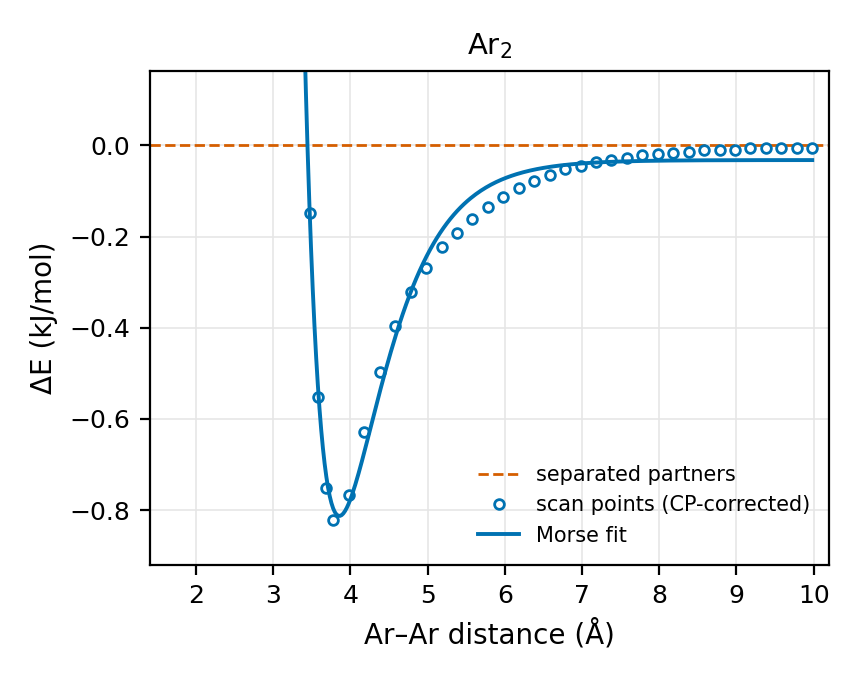
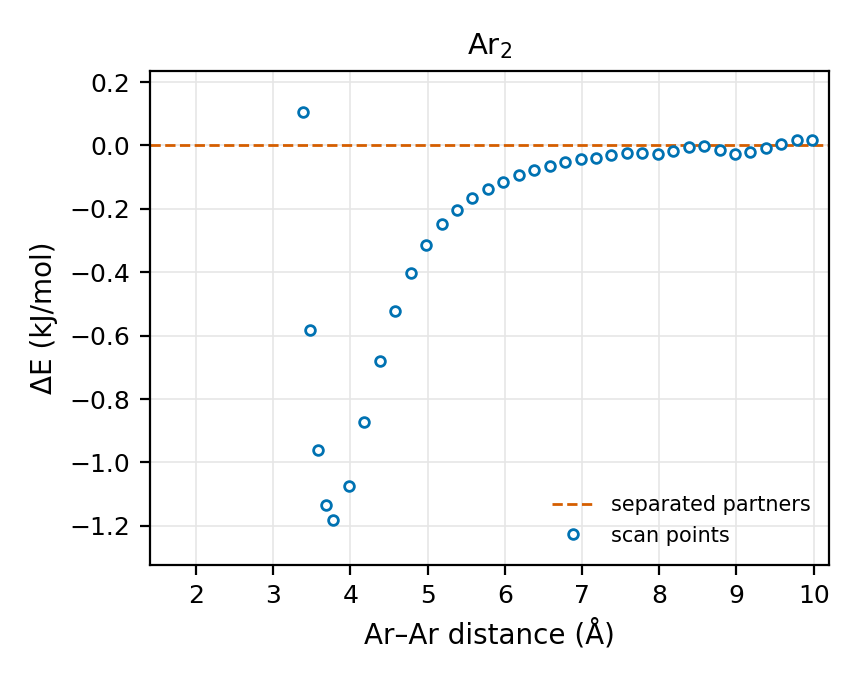
Chapter 69 (dispersion): uncorrected curve, no BSSE, no Morse, no functional talk
- Figure 69.1 regenerated from the plain scan energies (no counterpoise,
  no Morse line): Ar-Ar minimum 3.78 A, 1.2 kJ/mol deep; 0.4 A in +1.3,
  0.4 A out +0.3 kJ/mol. Table without r_e, D_e and BSSE.
- BSSE explanation, B3LYP/D3(BJ) wording and the Morse-fit discussion cut;
  History keeps London, drops the density-functional paragraph.
- Opening states the chapter's purpose; each part says what it shows.
  Water-dimer comparison uses the uncorrected 25.9 kJ/mol of ch 68 (about
  twenty times deeper); RT is twice the argon well. Scatter beyond 8 A
  explained as numerical precision.
- MANIFEST row updated.

Claude-Session: https://claude.ai/code/session_01LPtdCqiFHmFNbScUSGgzbs

diff --git a/chapters/teaching-dispersion.tex b/chapters/teaching-dispersion.tex
@@ -5,39 +5,39 @@
 \index{Intermolecular interactions}
 \eccexample{Examples > General Chemistry > Intermolecular interactions}
 
-Two argon atoms carry no charge and no dipole, and their electron shells are closed, yet argon condenses when it is cold enough, so something must hold the atoms together. The attraction is London dispersion: the electron clouds of the two atoms fluctuate, and the fluctuations in one atom are correlated with those in the other, so that the pair is on average a little lower in energy close together than far apart. The argon dimer is the cleanest case to show, since nothing else contributes.
+Two argon atoms carry no charge and no dipole, and their electron shells are closed, yet argon condenses when it is cold enough, so something must hold the atoms together. The attraction is London dispersion: the electron clouds of the two atoms fluctuate, and the fluctuations in one atom are correlated with those in the other, so that the pair is on average a little lower in energy close together than far apart. This chapter gives the teacher one curve, the energy of two argon atoms against their distance, to show a class that this attraction exists, how weak it is next to a hydrogen bond, and why it still matters. The argon dimer is the cleanest case to show, since nothing else contributes.
 
 \section*{This requires}
 Nothing beyond ECCE: the calculation is in the General Chemistry example set.
 
 \section{The calculation}
-The topic \menu{Intermolecular interactions} holds the argon dimer \emph{ar\_dimer}, optimised with the same method as the water dimer of Chapter~\ref{sec:hydrogen-bond}, ECCE-QM with B3LYP-D3(BJ)/def2-TZVP. B3LYP itself does not describe dispersion; in this calculation the attraction comes from the D3(BJ) term \cite{grimme2011} that is added to the energy. A relaxed scan of the Ar--Ar distance (Chapter~\ref{ch:scans}), inward from the optimised pair in steps of \SI{0.1}{\angstrom} and outward to \SI{10}{\angstrom} in steps of \SI{0.2}{\angstrom}, gives the curve of figure~\ref{fig:disp-curve}. Its zero is two argon atoms calculated separately with the same method. Every point is counterpoise-corrected: for each stored geometry of the scan ECCE ran single points of each atom alone and of each atom with the basis functions of the other present as ghost functions (\menu{Relaxed Scan}, counterpoise single points), and the difference, the basis-set superposition error (BSSE), is added to the energy of the point. Without it, each atom borrows basis functions from its neighbour, and the well comes out too deep.
+The topic \menu{Intermolecular interactions} holds the argon dimer \emph{ar\_dimer}, optimised in ECCE in the same way as the water dimer of Chapter~\ref{sec:hydrogen-bond}. For the curve of figure~\ref{fig:disp-curve} the Ar--Ar distance was scanned (Chapter~\ref{ch:scans}), from \SI{0.4}{\angstrom} inside the optimised distance out to \SI{10}{\angstrom}. Each point is the energy of the pair relative to two argon atoms calculated separately, in kJ/mol, the energy per mole of pairs; a negative value means that the pair is held together by that much energy.
 
 \section{The curve}
-The lowest point is at \SI{3.78}{\angstrom}, \SI{0.8}{kJ.mol^{-1}} below two separate argon atoms, and ECCE's Morse fit (\texttt{ecce-morse}) gives $D_\mathrm{e} = \SI{0.8}{kJ.mol^{-1}}$ at $r_\mathrm{e} = \SI{3.86}{\angstrom}$ (table~\ref{tab:disp-curve}). The BSSE at the lowest point is \SI{0.4}{kJ.mol^{-1}}: without the correction the point lies \SI{1.2}{kJ.mol^{-1}} below the separate atoms, so the error is about a third of the uncorrected depth. By \SI{10}{\angstrom} the curve is flat, within \SI{0.02}{kJ.mol^{-1}} of the separate atoms. The Morse curve fits the points to \SI{0.03}{kJ.mol^{-1}} rms but falls off too early between 5 and \SI{7}{\angstrom}: its attraction decays exponentially, while dispersion goes as $R^{-6}$. The two sides of the well are very different: moving the atoms \SI{0.4}{\angstrom} closer than the minimum raises the energy by \SI{1.4}{kJ.mol^{-1}}, more than the whole depth of the well, while moving them \SI{0.4}{\angstrom} apart costs only \SI{0.2}{kJ.mol^{-1}}. The repulsion between the closed shells sets in abruptly, whereas the attraction dies away slowly with distance.
+The curve shows how deep the attraction is and how it changes with distance. Its lowest point is at \SI{3.78}{\angstrom}, only \SI{1.2}{kJ.mol^{-1}} below two separate argon atoms (table~\ref{tab:disp-curve}). The two sides of the well are very different: moving the atoms \SI{0.4}{\angstrom} closer than the minimum raises the energy by \SI{1.3}{kJ.mol^{-1}}, more than the whole depth of the well, while moving them \SI{0.4}{\angstrom} apart costs only \SI{0.3}{kJ.mol^{-1}}. The steep inner wall is the repulsion of the two closed shells, which sets in abruptly once they touch, and the shallow outer side is the dispersion attraction, which dies away slowly with distance. Hence the curve shows both halves of the familiar picture of atoms as soft spheres, a hard core with a weak, long attractive tail. Beyond about \SI{8}{\angstrom} the points scatter by a few hundredths of a kJ/mol around zero; that is the numerical precision of the calculation, not a feature of the attraction.
 
 \begin{figure}[htbp]
 	\centering
 	\includegraphics[width=0.6\linewidth]{dispersion/dispersion-curve.ecce-9.5.3-dev.png}
-	\caption{Relaxed scan of the Ar--Ar distance of the argon dimer (ECCE-QM, B3LYP-D3(BJ)/def2-TZVP, counterpoise-corrected). Line: Morse fit of the corrected points. Zero (dashed): two separate argon atoms.}
+	\caption{Energy of the argon dimer against the Ar--Ar distance, from a relaxed scan in ECCE. Zero (dashed) is two argon atoms calculated separately. Note the energy scale, about twenty times smaller than that of the water dimer in figure~\ref{fig:hb-curve}.}
 	\label{fig:disp-curve}
 \end{figure}
 
 \begin{table}[htbp]
 	\centering
-	\caption{The curve of figure~\ref{fig:disp-curve}. $\Delta E_\mathrm{min}$ is the lowest scan point, at $R_\mathrm{min}$, and $\Delta E(R_\mathrm{max})$ the point at the largest distance, both relative to two separate argon atoms; $r_\mathrm{e}$ and $D_\mathrm{e}$ are from the Morse fit. Energies in kJ/mol, counterpoise-corrected; BSSE is the counterpoise correction at $R_\mathrm{min}$.}
+	\caption{The curve of figure~\ref{fig:disp-curve}. $\Delta E_\mathrm{min}$ is the lowest point, at the distance $R_\mathrm{min}$, and $\Delta E(R_\mathrm{max})$ the point at the largest distance $R_\mathrm{max}$, both relative to two separate argon atoms. Energies in kJ/mol.}
 	\label{tab:disp-curve}
-	\begin{tabular}{rrrrrrr}
+	\begin{tabular}{rrrr}
 		\toprule
-		$R_\mathrm{min}$ (\AA) & $\Delta E_\mathrm{min}$ & $\Delta E(R_\mathrm{max})$ & $R_\mathrm{max}$ (\AA) & $r_\mathrm{e}$ (\AA) & $D_\mathrm{e}$ & BSSE \\
+		$R_\mathrm{min}$ (\AA) & $\Delta E_\mathrm{min}$ & $\Delta E(R_\mathrm{max})$ & $R_\mathrm{max}$ (\AA) \\
 		\midrule
-		3.78 & $-0.8$ & 0.0 & 9.98 & 3.86 & 0.8 & 0.4 \\
+		3.78 & $-1.2$ & 0.0 & 9.98 \\
 		\bottomrule
 	\end{tabular}
 \end{table}
 
-The hydrogen bond of the water dimer, scanned and corrected in the same way, is \SI{23.3}{kJ.mol^{-1}} deep at an H$\cdots$O distance of \SI{1.93}{\angstrom}, about thirty times deeper than the argon well. At room temperature $RT$ is \SI{2.5}{kJ.mol^{-1}}, three times the depth of the argon well, so collisions break an argon pair apart almost as soon as it forms.
-\index{Basis-set superposition error}\index{Counterpoise correction}\index{Relaxed scan!interaction curves}
+The comparison with the hydrogen bond puts the depth in proportion. The water dimer, scanned in the same way, is \SI{25.9}{kJ.mol^{-1}} deep (Chapter~\ref{sec:hydrogen-bond}), about twenty times deeper than the argon well. At room temperature $RT$, the typical energy that molecules exchange in collisions, is \SI{2.5}{kJ.mol^{-1}}, twice the depth of the argon well, so collisions break an argon pair apart almost as soon as it forms. Hence argon is a gas at room temperature and becomes a liquid only when it is cooled far enough for collisions to be gentle compared with the depth of the well.
+\index{Relaxed scan!interaction curves}
 
 \section{In class}
 Start with the question why argon, with no charges, no dipoles and full shells, becomes a liquid at all, and then show figure~\ref{fig:disp-curve} with its numbers next to those of the water dimer. The attraction between two single atoms is weak, but dispersion acts between every pair of atoms in contact, so it adds up for large molecules; this is why the boiling points of the straight-chain alkanes rise with chain length.
@@ -46,5 +46,5 @@ Start with the question why argon, with no charges, no dipoles and full shells, 
 Van der Waals gave real gases an attraction between their molecules in his thesis of 1873, as the constant $a$ of his equation of state, without saying where the attraction came from \cite{vanderwaals1873}. Debye in 1920 and Keesom in 1921 traced it to the electric moments of the molecules: a permanent dipole or quadrupole induces a dipole in its neighbour (Debye), and permanent moments that rotate attract each other on average (Keesom) \cite{debye1920,keesom1921}. Neither mechanism applies to atoms of the noble gases, which have no permanent moments, and yet argon condenses. Jones (later Lennard-Jones) fitted an intermolecular potential with an attractive and a repulsive power of the distance to the equation of state of argon in 1924 \cite{jones1924}, and in 1931 settled on the form with $R^{-6}$ attraction and $R^{-12}$ repulsion that carries his name \cite{lennardjones1931}.
 \index{van der Waals, Johannes Diderik}\index{Debye, Peter}\index{Keesom, Willem Hendrik}\index{Lennard-Jones, John}
 
-The $R^{-6}$ attraction itself was explained by quantum mechanics. Eisenschitz and London calculated it for two hydrogen atoms in 1930, and London gave the general treatment the same year: the momentary dipoles of the two electron distributions are correlated, which lowers the energy of the pair by an amount that falls off as $R^{-6}$ \cite{eisenschitz1930,london1930}. London called the effect dispersion, after its connection with the optical dispersion of the atoms, and his 1937 paper in the Transactions of the Faraday Society gave the theory in English \cite{london1937}. Local and gradient-corrected density functionals, and hybrids such as B3LYP, take the correlation energy from the density and its gradient at each point, so they cannot describe correlated fluctuations of two electron distributions that do not overlap; B3LYP alone does not bind two argon atoms. Grimme added an empirical $C_6R^{-6}$ correction to the functional energy in 2006 (D2) \cite{grimme2006}, made the coefficients depend on the atoms' environment in 2010 (D3) \cite{grimme2010}, and in 2011 combined D3 with the Becke--Johnson damping that the calculations of this chapter use \cite{grimme2011}.
-\index{London, Fritz}\index{Eisenschitz, Robert}\index{Grimme, Stefan}
+The $R^{-6}$ attraction itself was explained by quantum mechanics. Eisenschitz and London calculated it for two hydrogen atoms in 1930, and London gave the general treatment the same year: the momentary dipoles of the two electron distributions are correlated, which lowers the energy of the pair by an amount that falls off as $R^{-6}$ \cite{eisenschitz1930,london1930}. London called the effect dispersion, after its connection with the optical dispersion of the atoms, and his 1937 paper in the Transactions of the Faraday Society gave the theory in English \cite{london1937}.
+\index{London, Fritz}\index{Eisenschitz, Robert}
